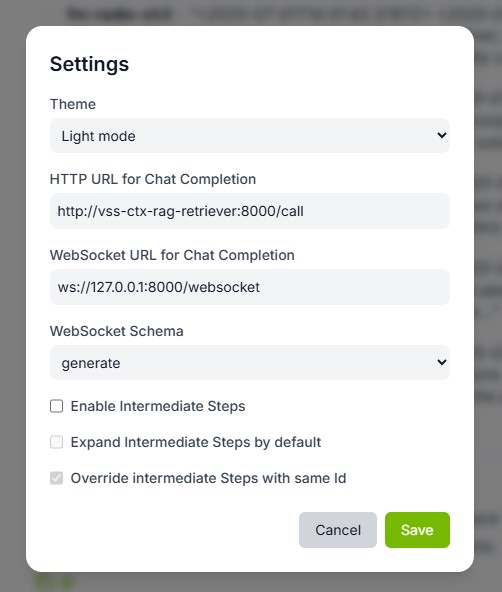
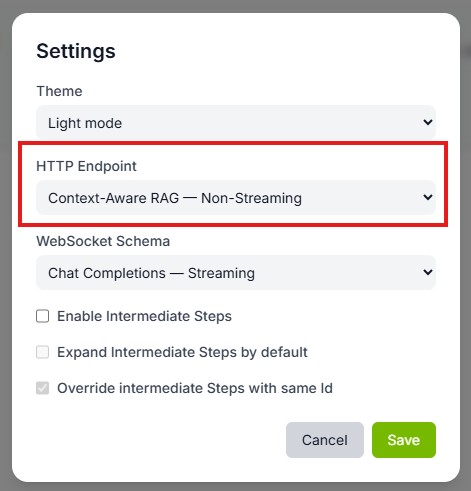
Release 25.10

Changed region(s): [[0.0, 0.0, 1.0, 1.0], [0.862, 0.2138, 0.8917, 0.2444]]

diff --git a/src/software-defined-radio/riva_asr.py b/src/software-defined-radio/riva_asr.py
@@ -51,6 +51,8 @@ class RivaThread(threading.Thread):
         self.channel_id = channel_id if channel_id is not None else 0
         self._database_text = None
         self._min_db_export_chars = self.params["min_db_export_chars"]
+        self._min_db_export_timeout_sec = self.params["db_export_timeout_sec"]
+        self._last_db_export_timestamp = None
 
         # Setup channel-aware logger
         logger_name = f"riva_asr_ch{self.channel_id}" if channel_id is not None else "riva_asr"
@@ -70,7 +72,26 @@ class RivaThread(threading.Thread):
 
         # Initialize collection
         if self.database_uri is not None and initialize:
-            self._initialize_ingest_service()
+            attempts = 0
+            max_attempts = 10
+            sleep_time = 10
+            while attempts < max_attempts:
+                try:
+                    self._initialize_ingest_service()
+                    break
+                except Exception as e:
+                    self.logger.warning(
+                        f"Error initializing ingest service, trying again in "
+                        f"{sleep_time} seconds ({attempts}/{max_attempts})"
+                    )
+                    attempts += 1
+                    if attempts == max_attempts:
+                        self.logger.error(
+                            f"Failed to initialize ingest service after "
+                            f"{max_attempts} attempts"
+                        )
+                        raise
+                    time.sleep(sleep_time)
 
         self.logger.info(f"RivaThread initialized for channel {self.channel_id}")
 
@@ -153,7 +174,13 @@ class RivaThread(threading.Thread):
         else:
             self._database_text += f" {transcript}"
 
-        if len(self._database_text) < self._min_db_export_chars:
+        hit_char_limit = len(self._database_text) >= self._min_db_export_chars
+        timeout = (
+            time.time() - self._last_db_export_timestamp > self._min_db_export_timeout_sec
+            if self._last_db_export_timestamp is not None
+            else False
+        )
+        if not hit_char_limit and not timeout:
             return
 
         # Determine start and end times for this export
@@ -210,6 +237,7 @@ class RivaThread(threading.Thread):
         self._database_text = None
         self._first_transcript_time = None
         self._prev_export_time = end_time
+        self._last_db_export_timestamp = time.time()
 
     def _frontend_export(self, transcript, timestamp=None, uuid=None):
         self.logger.info(f"Frontend export (Channel {self.channel_id}): {transcript}")
@@ -218,7 +246,7 @@ class RivaThread(threading.Thread):
         elif timestamp is None:
             timestamp = datetime.now(timezone.utc).strftime("%Y-%m-%d %H:%M:%S")
 
-        endpoint = f"http://{self.frontend_uri}/api/update-text"
+        endpoint = f"http://{self.frontend_uri}/api/update-data-stream"
         data = {
             "text": transcript,
             "stream_id": f"fm-radio-ch{self.channel_id}",

diff --git a/README.md b/README.md
@@ -90,7 +90,7 @@ See full documentation for the 3rd party repositories used:
 
 #### API Endpoints
 
-- [Llama 3.1 70b instruct NIM](https://build.nvidia.com/meta/llama-3_1-70b-instruct)
+- [NVIDIA Nemotron Nano 9b v2 NIM](https://build.nvidia.com/nvidia/nvidia-nemotron-nano-9b-v2)
 - [NVIDIA NeMo Retriever Llama 3.2 reranking NIM](https://build.nvidia.com/nvidia/llama-3_2-nv-rerankqa-1b-v2)
 
 > **NOTE:** The NIM services used by the RAG backend (i.e. everything except for the ASR NIM) have configurable endpoints that can be set in `external/context-aware-rag/config/config.yaml`. Cloud and on-prem NIM deployments can be used interchangeably by updating the endpoints in the RAG configuration file.
@@ -133,6 +133,8 @@ You may also upload your own audio files to explore the Streaming Data to RAG de
 
 The file replay service is *not* just replaying audio. Rather, it is fully simulating the type of data seen by the Holoscan SDR if it was connected to physical hardware producing baseband I/Q samples. For more details, see [src/file-replay/README.md](src/file-replay/README.md).
 
+**Note**: Replay files must be located within the build context of the `file-replay` service that is deployed, specifically inside `src/file-replay/files`. So for a file located at `streaming-data-to-rag/src/file-replay/files/my-audio.mp3`, the ENV should be set to `export REPLAY_FILES="my-audio.mp3"`.
+
 ```bash
 # Replay files must be comma-separated and located in `src/file-replay/files`
 export REPLAY_FILES="sample_files/ai_gtc_1.mp3, sample_files/ai_gtc_2.mp3, sample_files/ai_gtc_3.mp3"
@@ -145,7 +147,7 @@ export REPLAY_MAX_FILE_SIZE=50  # Maximum size of an individual file in MB
 #### Context-Aware RAG Image
 Build the image needed for the context-aware RAG system:
 ```bash
-docker build -t ctx_rag -f external/context-aware-rag/docker/Dockerfile external/context-aware-rag
+docker compose -f external/context-aware-rag/docker/deploy/compose.yaml build
 ```
 
 #### FM Radio Ingestion Workflow Images
@@ -161,13 +163,19 @@ docker compose -f deploy/docker-compose.yaml --profile replay build
 
 ### Deploy
 
-1. Context-Aware RAG services: `docker compose -f external/context-aware-rag/docker/deploy/compose.yaml up -d`
+1. Context-Aware RAG services:
+```bash
+docker compose -f external/context-aware-rag/docker/deploy/compose.yaml up -d
+```
 2. Wait for the RAG services to be healthy before proceeding.
     - Retrieval service: http://localhost:8000/health
     - Ingestion service: http://localhost:8001/health
     - Milvus: http://localhost:9091/healthz
     - Neo4j: http://localhost:7474
-3. FM Radio Ingestion Workflow and UI: `docker compose -f deploy/docker-compose.yaml --profile replay up -d`
+3. FM Radio Ingestion Workflow and UI:
+```bash
+docker compose -f deploy/docker-compose.yaml --profile replay up -d
+```
 
 > **Quick notes about Context-Aware RAG service**
 >
@@ -230,6 +238,14 @@ Some suggested questions to start with:
     + *"What was the main topic of conversation on channel 0, excluding the past ten minutes?"*
         - Retrieves up to `top_k` documents on channel 0 added prior to 600 seconds ago
 
+## Teardown
+
+To end all services, run:
+```bash
+docker compose -f external/context-aware-rag/docker/deploy/compose.yaml down
+docker compose -f ../deploy/docker-compose.yaml --profile replay down
+```
+
 ## Ethical Considerations
 NVIDIA believes Trustworthy AI is a shared responsibility, and we have established policies and practices to enable development for a wide array of AI applications. When downloaded or used in accordance with our terms of service, developers should work with their supporting model team to ensure the models meet requirements for the relevant industry and use case and address unforeseen product misuse. Please report security vulnerabilities or NVIDIA AI concerns [here](https://www.nvidia.com/en-us/support/submit-security-vulnerability/).
 
@@ -240,5 +256,5 @@ Use of the models in this blueprint is governed by the [NVIDIA AI Foundation Mod
 The software and materials are governed by the [NVIDIA Software License Agreement](https://www.nvidia.com/en-us/agreements/enterprise-software/nvidia-software-license-agreement/) and the [Product-Specific Terms for AI Products](https://www.nvidia.com/en-us/agreements/enterprise-software/product-specific-terms-for-ai-products/); except for the models, which are governed by the [NVIDIA Community Model License](https://www.nvidia.com/en-us/agreements/enterprise-software/nvidia-community-models-license/); the NVIDIA NeMo-Agent-Toolkit-UI, which is governed by the [MIT License](https://github.com/NVIDIA/NeMo-Agent-Toolkit-UI/blob/main/LICENSE); the NVIDIA Holoscan SDK and the NVIDIA Context Aware RAG, which are governed by the [Apache 2.0 License](https://www.apache.org/licenses/LICENSE-2.0); and the audio files, which are licensed under the [Creative Commons Attribution 4.0 International License (CC BY 4.0)](https://creativecommons.org/licenses/by/4.0/legalcode).
 
 #### Additional Information
-For llama-3.1-70b-instruct, [Llama 3.1 Community License Agreement](https://www.llama.com/llama3_1/license/). Built with Llama. For llama-3.2-nv-embedqa-1b-v2 and llama-3.2-nv-rerankqa-1b-v2, the [Llama 3.2 Community License Agreement](https://www.llama.com/llama3_2/license/). Built with Llama.
+For nvidia-nemotron-nano-9b-v2, [NVIDIA Open Model License Agreement](https://www.nvidia.com/en-us/agreements/enterprise-software/nvidia-open-model-license/). For llama-3.2-nv-embedqa-1b-v2 and llama-3.2-nv-rerankqa-1b-v2, the [Llama 3.2 Community License Agreement](https://www.llama.com/llama3_2/license/). Built with Llama.
 

diff --git a/troubleshooting.md b/troubleshooting.md
@@ -2,17 +2,9 @@
 
 ### Chat Errors
 
-The most common error is an incorrect HTTP URL for the Chat Completion call, which may default to `http://127.0.0.1:8000/call`. If this is occuring, the error will likely look something like this:
-
-<img src="docs/chat-error.jpg" alt="Chat Error" style="max-width: 1000px; width: 100%;" />
-
-Go to `Settings -> HTTP URL for Chat Completion` and ensure it is set to `http://vss-ctx-rag-retriever:8000/call`:
+The most common error is an incorrect HTTP Endpoint. Go to `Settings -> HTTP Endpoint` and ensure it is set to "Context-Aware RAG — Non-Streaming (Experimental)":
 
 <img src="docs/settings.jpg" alt="Settings" style="max-width: 300px; width: 100%;" />
-
-Then verify clicking "Regenerate Response":
-
-<img src="docs/chat-success.jpg" alt="Chat Success" style="max-width: 1000px; width: 100%;" />
 
 ### Container Logs
 View logs for any service with:

diff --git a/api-integration.md b/api-integration.md
@@ -145,9 +145,9 @@ The streaming application updates the frontend UI in real-time using the followi
 
 #### Update Text Stream
 
-**Endpoint:** `POST /api/update-text`
+**Endpoint:** `POST /api/update-data-stream`
 
-**URL:** `http://<frontend_uri>/api/update-text`
+**URL:** `http://<frontend_uri>/api/update-data-stream`
 
 **Purpose:** Send real-time transcript updates to the frontend UI
 
@@ -180,7 +180,7 @@ import requests
 from datetime import datetime, timezone
 
 def send_to_frontend(transcript, stream_id, is_final=False):
-    endpoint = f"http://{frontend_uri}/api/update-text"
+    endpoint = f"http://{frontend_uri}/api/update-data-stream"
     data = {
         "text": transcript,
         "stream_id": f"stream-{stream_id}",

diff --git a/src/file-replay/README.md b/src/file-replay/README.md
@@ -17,6 +17,18 @@ This allows for realistic testing and development without requiring physical SDR
 
 ### Environment Variables
 
+Replay files must be located within the build context of the `file-replay` service that is deployed, specifically inside `src/file-replay/files`.
+
+So for a file located at:
+```bash
+streaming-data-to-rag/src/file-replay/files/file1.mp3
+```
+
+the ENV should be set to
+```bash
+export REPLAY_FILES="file1.mp3"
+```
+
 Configure the file replay service using these environment variables:
 
 #### Required
